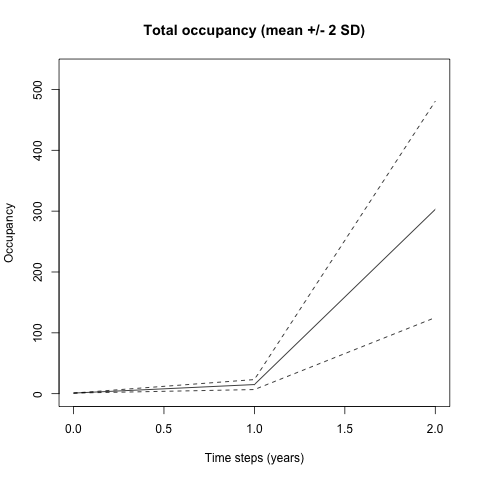
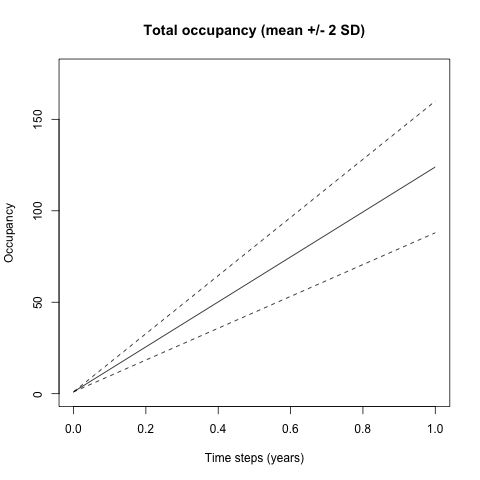
Updated readme with example (10)

diff --git a/README.md b/README.md
@@ -551,22 +551,14 @@ new colony in the following year. Seeds remain viable for up to 7 years
 (Hauser & McCarthy, 2009) and may establish in suitable locations in
 subsequent years. These delayed seed establishment dynamics may be
 modelled with complex stage-based population models over longer
-time-spans. However, for our simple presence-only model we only consider
-seed arrivals that establish new colonies in their first year. To
-approximately reproduce the simulated the dispersal-constrained habitat
-suitability from Williams et al. (2008 - Figure 6) and Hauser & McCarthy
-(2009 - Figure 2a), we estimate that up to 10% of seed arrivals
-establish within suitable locations in their first year, thus a mean
-number of dispersal *events* of 80 was chosen for our model.
-Alternatively, we could have scaled our establishment probability
-estimated in step 2 by 10% to model the single-year establishment of all
-(up to 800) seeds dispersing, but this would be more computationally
-demanding to simulate.
+time-spans. For our simple presence-only model, however, we consider any
+seed arrivals that may establish new colonies in the near future, and
+thus utilise an estimated mean number of dispersal *events* of 800.
 
 ``` r
 dispersal_model <- bsspread::Dispersal(region,
                                        population_model,
-                                       events = 80,
+                                       events = 800,
                                        distance_function = distance_kernel,
                                        direction_function = direction_kernel)
 ```
@@ -575,37 +567,37 @@ dispersal_model <- bsspread::Dispersal(region,
 
 We can now build and run our population spread model simulations via a
 *Simulator* class object, with links to our population model,
-initializer, and dispersal model. We will run 1000 replicate stochastic
-model simulations each having a 2-year time steps.
+initializer, and dispersal model. We will run 10,000 replicate
+stochastic model simulations each having a 1-year time step.
 
 ``` r
 progress_function <- function(n, r, tm) {
-  if (r %% 100 == 0 && tm == 2) {
+  if (r %% 1000 == 0 ) {
     print(paste("replicate", r))
   }
   return(n)
 }
 simulator <- bsspread::Simulator(region,
-                                 time_steps = 2,
+                                 time_steps = 1,
                                  step_duration = 1,
                                  step_units = "years",
-                                 replicates = 1000,
+                                 replicates = 10000,
                                  parallel_cores = 8,
                                  initializer = initializer,
                                  population_model = population_model,
                                  dispersal_models = list(dispersal_model),
                                  user_function = progress_function)
 results <- simulator$run()
-#> [1] "replicate 100"
-#> [1] "replicate 200"
-#> [1] "replicate 300"
-#> [1] "replicate 400"
-#> [1] "replicate 500"
-#> [1] "replicate 600"
-#> [1] "replicate 700"
-#> [1] "replicate 800"
-#> [1] "replicate 900"
 #> [1] "replicate 1000"
+#> [1] "replicate 2000"
+#> [1] "replicate 3000"
+#> [1] "replicate 4000"
+#> [1] "replicate 5000"
+#> [1] "replicate 6000"
+#> [1] "replicate 7000"
+#> [1] "replicate 8000"
+#> [1] "replicate 9000"
+#> [1] "replicate 10000"
 ```
 
 ### Step 6: Results
@@ -622,27 +614,24 @@ result_rast <- results$save_rasters()
 result_rast
 #> $occupancy_mean
 #> class       : SpatRaster 
-#> size        : 170, 180, 3  (nrow, ncol, nlyr)
+#> size        : 170, 180, 2  (nrow, ncol, nlyr)
 #> resolution  : 100, 100  (x, y)
 #> extent      : 1354000, 1372000, -4120000, -4103000  (xmin, xmax, ymin, ymax)
 #> coord. ref. : GDA2020 / Australian Albers (EPSG:9473) 
 #> sources     : occupancy_t0_mean.tif  
 #>               occupancy_t1_mean.tif  
-#>               occupancy_t2_mean.tif  
-#> names       :     0,     1,     2 
-#> min values  : 0.000, 0.000, 0.000 
-#> max values  : 0.023, 0.244, 0.581
-# Plot the mean occupancy for time steps 1 and 2
+#> names       :      0,      1 
+#> min values  : 0.0000, 0.0000 
+#> max values  : 0.0184, 0.6961
+# Plot the mean occupancy for time step 1
 label <- attr(result_rast$occupancy_mean, "metadata")$label
-for (i in 2:3) {
-  terra::plot(log(result_rast$occupancy_mean[[i]], base = 10), colNA = "black",
-              main = paste(label, ": time step", i - 1, "(log)"))
-}
+terra::plot(log(result_rast$occupancy_mean[[2]], base = 10), colNA = "black",
+            main = paste(label, "of Hawkweed (log)"))
 ```
 
-<img src="man/figures/README-example_6_1-1.png" width="100%" style="display: block; margin: auto;" /><img src="man/figures/README-example_6_1-2.png" width="100%" style="display: block; margin: auto;" />
+<img src="man/figures/README-example_6_1-1.png" width="100%" style="display: block; margin: auto;" />
 
-The raster plots indicate the mean (log) occupancy across the 1000
+The raster plots indicate the mean (log) occupancy across the 10,000
 replicate simulations. Note that unstructured and staged population
 models also produce raster plots for the standard deviation (SD) of
 occupancy, as well as mean and SD for population sized. We may also
@@ -655,15 +644,15 @@ results$save_csv()
 total_occupancy <- read.csv("total_occupancy.csv")
 colnames(total_occupancy)[1] <- "Total occupancy"
 print(total_occupancy)
-#>   Total occupancy t0        t1        t2
-#> 1            mean  1 15.004000 302.90900
-#> 2              sd  0  4.095944  88.91058
+#>   Total occupancy t0        t1
+#> 1            mean  1 123.95530
+#> 2              sd  0  17.98784
 total_area_occupied <- read.csv("total_area_occupied.csv")
 colnames(total_area_occupied)[1] <- "Total area occupied"
 print(total_area_occupied)
-#>   Total area occupied    t0        t1        t2
-#> 1                mean 10000 150040.00 3029090.0
-#> 2                  sd     0  40959.44  889105.8
+#>   Total area occupied    t0        t1
+#> 1                mean 10000 1239553.0
+#> 2                  sd     0  179878.4
 ```
 
 Time-series plots of total occupancy and total area occupied may also be